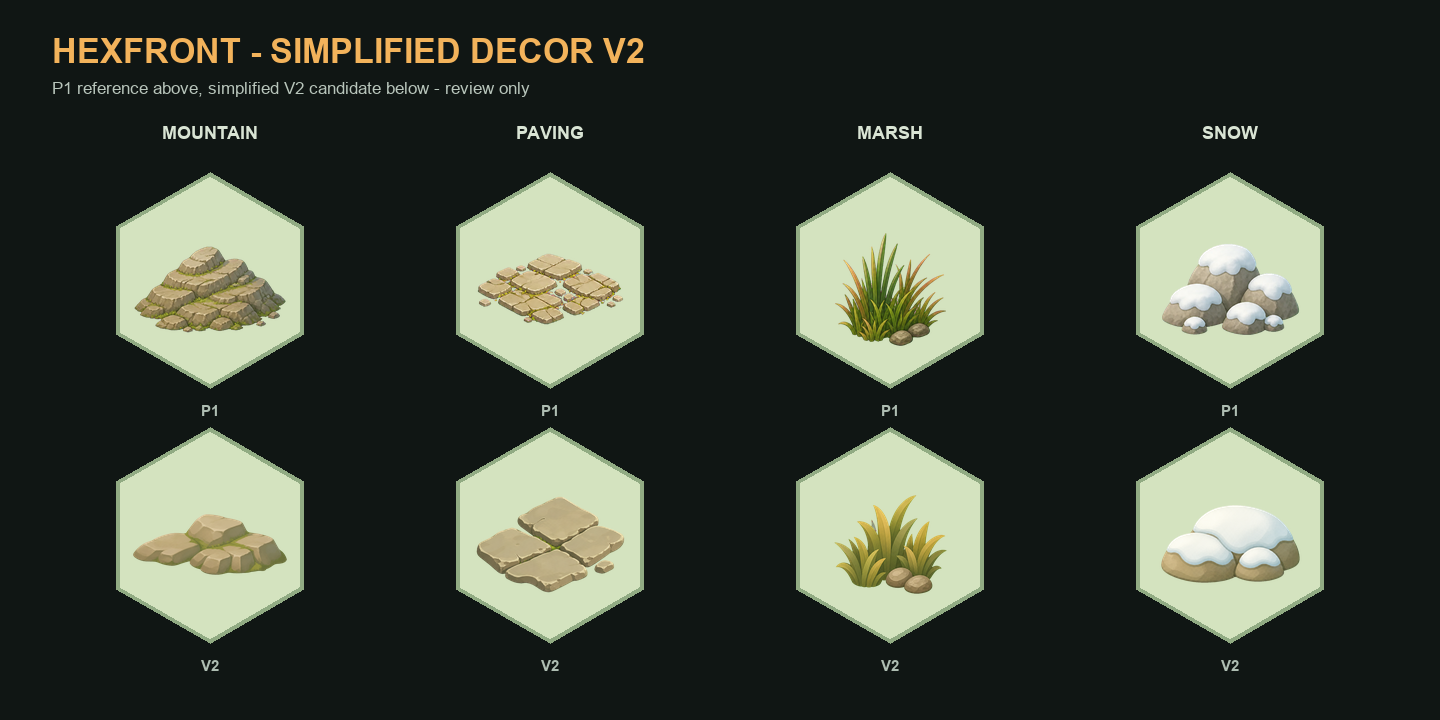
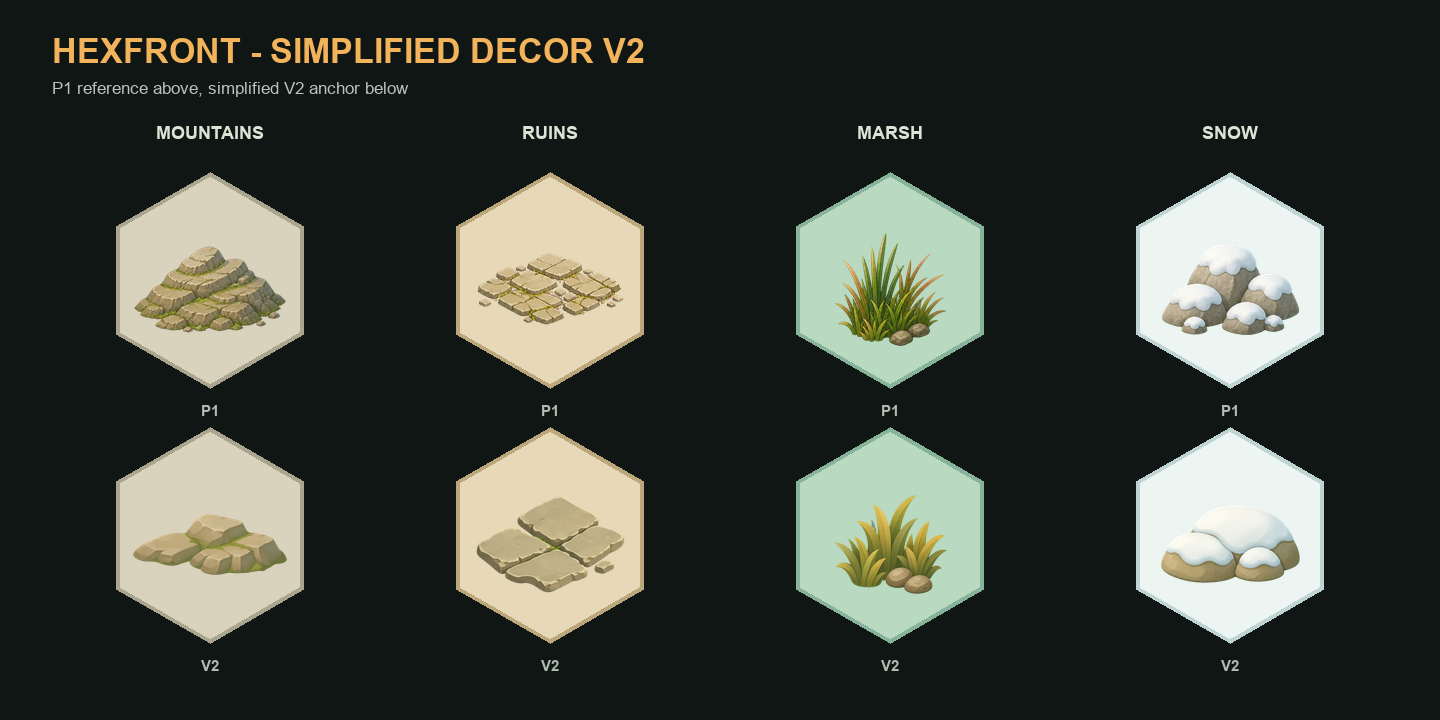
Add complete simplified decor V2 asset set

diff --git a/art/candidates/decor-v2/process_candidates.py b/art/candidates/decor-v2/process_candidates.py
@@ -8,19 +8,27 @@ ROOT = Path(__file__).parent
 SPRITE_DIR = ROOT / "sprites"
 PREVIEW_DIR = ROOT / "previews"
 P1_DIR = ROOT.parent / "decor-p1" / "sprites"
+RUNTIME_DIR = ROOT.parents[2] / "public" / "assets" / "decor-v2"
 
-ASSETS = {
-    "MOUNTAIN": ("mountains-highland-ridge.png", "mountains-highland-ridge-v2.png"),
-    "PAVING": ("ruins-cracked-paving.png", "ruins-cracked-paving-v2.png"),
-    "MARSH": ("marsh-reeds-stones.png", "marsh-reeds-stones-v2.png"),
-    "SNOW": ("snow-snow-rocks.png", "snow-snow-rocks-v2.png"),
+FAMILIES = {
+    "mountains": ["rock-outcrop", "highland-ridge", "snow-peaks", "scree-cluster"],
+    "ruins": ["collapsed-corner", "cracked-paving", "parallel-rubble", "broken-foundation"],
+    "marsh": ["cattails", "sedge", "lily-leaves", "reeds-stones"],
+    "snow": ["snow-conifer", "snow-bush", "snow-rocks", "snowdrift"],
+}
+
+ANCHORS = {
+    "mountains": "highland-ridge",
+    "ruins": "cracked-paving",
+    "marsh": "reeds-stones",
+    "snow": "snow-rocks",
 }
 
 SAFE_BOX = {
-    "MOUNTAIN": (1.46, 1.10),
-    "PAVING": (1.42, 0.96),
-    "MARSH": (1.08, 1.22),
-    "SNOW": (1.34, 1.00),
+    "mountains": (1.46, 1.10),
+    "ruins": (1.42, 0.96),
+    "marsh": (1.08, 1.22),
+    "snow": (1.34, 1.00),
 }
 
 
@@ -30,6 +38,12 @@ def font(size: int, bold: bool = False) -> ImageFont.ImageFont:
         return ImageFont.truetype(name, size)
     except OSError:
         return ImageFont.load_default()
+
+
+def sprite_path(family: str, name: str, v2: bool = True) -> Path:
+    suffix = "-v2" if v2 else ""
+    root = SPRITE_DIR if v2 else P1_DIR
+    return root / f"{family}-{name}{suffix}.png"
 
 
 def trim_with_padding(image: Image.Image, padding: int = 18) -> Image.Image:
@@ -64,24 +78,26 @@ def pointy_hex(center_x: int, center_y: int, radius: int) -> list[tuple[float, f
     ]
 
 
-def draw_hex(draw: ImageDraw.ImageDraw, x: int, y: int, radius: int) -> None:
-    draw.polygon(
-        pointy_hex(x, y, radius),
-        fill="#d4e3bf",
-        outline="#91ab83",
-        width=max(1, radius // 28 + 1),
-    )
+def draw_hex(draw: ImageDraw.ImageDraw, x: int, y: int, radius: int, family: str) -> None:
+    palette = {
+        "mountains": ("#d9d2bd", "#aaa58f"),
+        "ruins": ("#e7d9b7", "#bca77c"),
+        "marsh": ("#b9d9c1", "#86b39a"),
+        "snow": ("#edf5f2", "#bfd4d2"),
+    }
+    fill, edge = palette[family]
+    draw.polygon(pointy_hex(x, y, radius), fill=fill, outline=edge, width=max(1, radius // 28 + 1))
 
 
 def place_sprite(
     canvas: Image.Image,
-    sprite_path: Path,
+    path: Path,
     family: str,
     x: int,
     y: int,
     radius: int,
 ) -> None:
-    sprite = Image.open(sprite_path).convert("RGBA")
+    sprite = Image.open(path).convert("RGBA")
     width_ratio, height_ratio = SAFE_BOX[family]
     max_width = radius * width_ratio
     max_height = radius * height_ratio
@@ -105,66 +121,84 @@ def draw_label_centered(
     draw.text((x - (bounds[2] - bounds[0]) / 2, y), label, font=label_font, fill=color)
 
 
-def make_candidate_grid() -> None:
+def make_anchor_comparison() -> None:
     PREVIEW_DIR.mkdir(parents=True, exist_ok=True)
     canvas = Image.new("RGBA", (1440, 720), "#101614")
     draw = ImageDraw.Draw(canvas)
     draw.text((52, 32), "HEXFRONT - SIMPLIFIED DECOR V2", font=font(34, True), fill="#f3b35b")
-    draw.text((52, 78), "P1 reference above, simplified V2 candidate below - review only", font=font(17), fill="#b8c5bb")
-
+    draw.text((52, 78), "P1 reference above, simplified V2 anchor below", font=font(17), fill="#b8c5bb")
     columns = [210, 550, 890, 1230]
-    for column, (family, (p1_name, v2_name)) in zip(columns, ASSETS.items(), strict=True):
-        draw_label_centered(draw, column, 122, family, font(18, True), "#d9e4d4")
-        for row_y, sprite_path, version in (
-            (280, P1_DIR / p1_name, "P1"),
-            (535, SPRITE_DIR / v2_name, "V2"),
+    for column, (family, name) in zip(columns, ANCHORS.items(), strict=True):
+        draw_label_centered(draw, column, 122, family.upper(), font(18, True), "#d9e4d4")
+        for row_y, path, version in (
+            (280, sprite_path(family, name, False), "P1"),
+            (535, sprite_path(family, name), "V2"),
         ):
-            draw_hex(draw, column, row_y, 108)
-            place_sprite(canvas, sprite_path, family, column, row_y, 108)
+            draw_hex(draw, column, row_y, 108, family)
+            place_sprite(canvas, path, family, column, row_y, 108)
             draw_label_centered(draw, column, row_y + 122, version, font(15, True), "#aebdb2")
-
     canvas.save(PREVIEW_DIR / "candidate-grid.png", optimize=True)
 
 
-def make_game_scale_comparison() -> None:
+def make_anchor_scale_comparison() -> None:
     canvas = Image.new("RGBA", (1440, 620), "#101614")
     draw = ImageDraw.Draw(canvas)
     draw.text((52, 28), "GAME-SCALE CHECK - DESKTOP AND PORTRAIT MOBILE", font=font(30, True), fill="#f3b35b")
-    draw.text((52, 70), "Same placement limits for P1 and V2; no renderer integration", font=font(16), fill="#b8c5bb")
-
+    draw.text((52, 70), "Same placement limits for P1 and V2 anchors", font=font(16), fill="#b8c5bb")
     columns = [220, 560, 900, 1240]
-    rows = [220, 465]
-    for column, (family, (p1_name, v2_name)) in zip(columns, ASSETS.items(), strict=True):
-        draw_label_centered(draw, column, 110, family, font(17, True), "#d9e4d4")
-        for row_y, radius, scale_label in ((rows[0], 48, "48 px"), (rows[1], 31, "31 px")):
-            left_x, right_x = column - 62, column + 62
-            for x, sprite_path, version in (
-                (left_x, P1_DIR / p1_name, "P1"),
-                (right_x, SPRITE_DIR / v2_name, "V2"),
+    for column, (family, name) in zip(columns, ANCHORS.items(), strict=True):
+        draw_label_centered(draw, column, 110, family.upper(), font(17, True), "#d9e4d4")
+        for row_y, radius, scale_label in ((220, 48, "48 px"), (465, 31, "31 px")):
+            for x, path, version in (
+                (column - 62, sprite_path(family, name, False), "P1"),
+                (column + 62, sprite_path(family, name), "V2"),
             ):
-                draw_hex(draw, x, row_y, radius)
-                place_sprite(canvas, sprite_path, family, x, row_y, radius)
+                draw_hex(draw, x, row_y, radius, family)
+                place_sprite(canvas, path, family, x, row_y, radius)
                 draw_label_centered(draw, x, row_y + radius + 18, version, font(12, True), "#aebdb2")
             draw_label_centered(draw, column, row_y - radius - 30, scale_label, font(13), "#88998d")
-
     canvas.save(PREVIEW_DIR / "game-scale-comparison.png", optimize=True)
+
+
+def make_full_candidate_grid() -> None:
+    canvas = Image.new("RGBA", (1440, 1160), "#101614")
+    draw = ImageDraw.Draw(canvas)
+    draw.text((52, 30), "HEXFRONT - COMPLETE DECOR V2 RUNTIME SET", font=font(32, True), fill="#f3b35b")
+    draw.text((52, 72), "16 transparent assets - no water replacement", font=font(16), fill="#b8c5bb")
+    columns = [210, 550, 890, 1230]
+    rows = [225, 495, 765, 1035]
+    for row_y, (family, names) in zip(rows, FAMILIES.items(), strict=True):
+        draw.text((45, row_y - 112), family.upper(), font=font(18, True), fill="#d9e4d4")
+        for column, name in zip(columns, names, strict=True):
+            draw_hex(draw, column, row_y, 100, family)
+            place_sprite(canvas, sprite_path(family, name), family, column, row_y, 100)
+            draw_label_centered(draw, column, row_y + 113, name.replace("-", " "), font(14), "#d9e4d4")
+    canvas.save(PREVIEW_DIR / "full-candidate-grid.png", optimize=True)
+
+
+def make_full_scale_grid(radius: int, filename: str, title: str) -> None:
+    canvas = Image.new("RGBA", (920, 720), "#101614")
+    draw = ImageDraw.Draw(canvas)
+    draw.text((32, 22), title, font=font(24, True), fill="#f3b35b")
+    columns = [150, 355, 560, 765]
+    rows = [135, 300, 465, 630]
+    for row_y, (family, names) in zip(rows, FAMILIES.items(), strict=True):
+        draw.text((28, row_y - 70), family.upper(), font=font(14, True), fill="#d9e4d4")
+        for column, name in zip(columns, names, strict=True):
+            draw_hex(draw, column, row_y, radius, family)
+            place_sprite(canvas, sprite_path(family, name), family, column, row_y, radius)
+    canvas.save(PREVIEW_DIR / filename, optimize=True)
 
 
 def validate_sprites() -> None:
     print("file,width,height,corner_alpha,magenta_spill,visible_coverage")
     for path in sorted(SPRITE_DIR.glob("*.png")):
         image = Image.open(path).convert("RGBA")
-        corners = [
-            (0, 0),
-            (image.width - 1, 0),
-            (0, image.height - 1),
-            (image.width - 1, image.height - 1),
-        ]
+        corners = [(0, 0), (image.width - 1, 0), (0, image.height - 1), (image.width - 1, image.height - 1)]
         corner_alpha = max(image.getpixel(point)[3] for point in corners)
         pixels = list(image.getdata())
         magenta_spill = sum(
-            1
-            for red, green, blue, alpha in pixels
+            1 for red, green, blue, alpha in pixels
             if alpha > 32 and red > 180 and blue > 150 and green < 100
         )
         visible = sum(1 for _, _, _, alpha in pixels if alpha > 8)
@@ -172,8 +206,21 @@ def validate_sprites() -> None:
         print(f"{path.name},{image.width},{image.height},{corner_alpha},{magenta_spill},{coverage:.3f}")
 
 
+def export_runtime_assets() -> None:
+    RUNTIME_DIR.mkdir(parents=True, exist_ok=True)
+    for family, names in FAMILIES.items():
+        for name in names:
+            image = Image.open(sprite_path(family, name)).convert("RGBA")
+            image.thumbnail((512, 512), Image.Resampling.LANCZOS)
+            image.save(RUNTIME_DIR / f"{family}-{name}.webp", "WEBP", quality=88, method=6)
+
+
 if __name__ == "__main__":
     trim_sprites()
-    make_candidate_grid()
-    make_game_scale_comparison()
+    make_anchor_comparison()
+    make_anchor_scale_comparison()
+    make_full_candidate_grid()
+    make_full_scale_grid(48, "desktop-game-scale-grid.png", "COMPLETE V2 SET - 48 PX HEX RADIUS")
+    make_full_scale_grid(31, "mobile-game-scale-grid.png", "COMPLETE V2 SET - 31 PX HEX RADIUS")
     validate_sprites()
+    export_runtime_assets()

diff --git a/art/candidates/decor-v2/README.md b/art/candidates/decor-v2/README.md
@@ -1,46 +1,65 @@
-# HEXFRONT simplified decorative asset candidates - V2
+# HEXFRONT simplified decorative assets - V2
 
-Status: **review package only - not integrated into the renderer**
+Status: **complete, exported and integrated as the default playable decoration set**
 
-This package starts the simplified replacement pass for four representative P1 assets. The goal is not lower technical quality; it is stronger game-scale readability through fewer, larger shapes and quieter texture. Water and shore assets are explicitly outside this pass.
+This package replaces fine-grained P1 decoration with larger shapes that remain readable on desktop and portrait mobile. It contains all sixteen mountain, ruin, marsh and snow sprites used by the campaign. Water and shore rendering are explicitly outside this pass and remain unchanged.
 
-## Included style anchors
+## Runtime behavior and rollback
 
-| Family | V2 candidate | Intended improvement |
-|---|---|---|
-| Mountain | `mountains-highland-ridge-v2.png` | Three broad, asymmetrical rock masses and a single stable silhouette instead of many small ledges and loose stones. |
-| Ruins | `ruins-cracked-paving-v2.png` | Four dominant slabs and one fragment instead of a busy field of similarly weighted paving pieces. |
-| Marsh | `marsh-reeds-stones-v2.png` | Three grouped foliage masses and two stones instead of dense fine reed detail. |
-| Snow | `snow-snow-rocks-v2.png` | Three clearly visible overlapping rocks and a calmer snow contour instead of five repeated snow-cap forms. |
+- Default game URL: loads `decor-v2`.
+- `?visual=decor-v2`: explicit V2 selection.
+- `?visual=production`: former procedural decoration without generated candidate sprites.
+- `?visual=decor-p1`: earlier detailed generated set.
+- `?visual=decor-p2`: earlier authored P1 placement experiment.
+
+The renderer loads assets lazily from `public/assets/decor-v2/`. Terrain assignment and V2 motif selection use separate deterministic hashes so all variants can occur without changing gameplay, level geometry or balance.
+
+## Complete asset set
+
+| Family | Runtime motifs |
+|---|---|
+| Mountains | rock outcrop, highland ridge, snow ridge, scree cluster |
+| Ruins | collapsed corner, cracked paving, offset rubble, broken foundation |
+| Marsh | cattails, sedge, lily leaves, reeds and stones |
+| Snow | asymmetric conifer, low bush, rock cluster, snowdrift |
+
+## Visual constraints
+
+- isolated transparent sprites without baked hexes, terrain, frames or cast shadows
+- one clear silhouette and a few large tonal masses per asset
+- neutral, grounded tactical-board-game tone without fantasy peaks or military iconography
+- mobile-first readability at a 31 px hex radius
+- conservative placement boxes that retain visible hex outlines and troop-number priority
+- compact tall-tree fitting so the lower hex edge is never clipped
 
 ## Review images
 
-- `previews/candidate-grid.png` compares P1 and V2 enlarged on identical representative hexes.
-- `previews/game-scale-comparison.png` compares P1 and V2 at 48 px desktop and 31 px portrait-mobile hex radii.
+- `previews/full-candidate-grid.png` - all sixteen V2 assets enlarged on family-specific hex colors
+- `previews/desktop-game-scale-grid.png` - complete set at a 48 px hex radius
+- `previews/mobile-game-scale-grid.png` - complete set at a 31 px hex radius
+- `previews/candidate-grid.png` - original P1 versus V2 style anchors
+- `previews/game-scale-comparison.png` - P1/V2 anchors at both target sizes
 
-## Deliberate constraints
+## Verification completed
 
-- isolated transparent sprites; no baked hex, terrain, shadow or frame
-- one clear silhouette per candidate
-- large tonal masses rather than microtexture
-- neutral, non-fantasy tactical-board-game tone
-- enough internal contrast for pale terrain without competing with troop numbers
-- no runtime exports, asset registrations, renderer changes or level-data changes
-- no work on water or shore visuals
+- all 16 runtime WebP files generated and each remains below 100 KB
+- transparent source corners and chroma-spill validation performed during processing
+- every V2 asset observed through real browser resource inventories across the ten campaign levels
+- all ten levels exercised at desktop and 390 x 844 portrait-mobile viewports
+- representative ruin, highland, marsh and snow maps visually reviewed at both sizes
+- no browser-console errors, missing assets or placeholder shapes
+- no water or shore asset changes
 
-## Current review status
-
-These four images are **style anchors, not final production approval**. They should first be judged in the supplied game-scale comparison.
-
-| Candidate | Working verdict | Main reservation before integration |
-|---|---|---|
-| Highland ridge V2 | Promising | Very calm and natural at mobile scale; needs an in-map contrast check against both light and dark ground. |
-| Cracked paving V2 | Conditional | Cleaner than P1, but at 31 px it can still read as four ordinary paving stones rather than a broader ruin region. Do not propagate this motif until that semantic choice is accepted. |
-| Reeds and stones V2 | Promising | Stronger grouping and calmer color; should be tested beside other vegetation to ensure it remains marsh-specific. |
-| Snow rocks V2 | Promising | Clearer mass at 31 px; requires a pale-snow terrain check because white-on-white contrast cannot be judged on the green review tile. |
-
-The first generated V2 mountain used concentric centered terraces and resembled a constructed platform. It was rejected after the game-scale review and is preserved under `rejected/` for traceability. If the accepted abstraction level is approved, the remaining mountain, ruin, marsh and snow variants can be recreated in the same direction. Only after that should a reversible renderer test be prepared.
+Ruins intentionally remain the quietest family. The collapsed corner provides the strongest semantic cue, while paving and foundation fragments prevent every ruin cell from reading as an identical building or objective.
 
 ## Reproduction
 
-The built-in ImageGen tool generated one flat-magenta source per asset using the P1 sprite only as a subject and perspective reference. The standard ImageGen chroma-removal helper produced the transparent sprites. Run `python process_candidates.py` to trim the sprites, regenerate both previews and print alpha/spill validation.
+The built-in ImageGen tool generated one flat-magenta source per asset. Each P1 sprite was used only as a subject/perspective reference; the accepted V2 anchor supplied abstraction and palette direction. The standard ImageGen chroma-removal helper produced transparent PNGs.
+
+Run:
+
+```bash
+python art/candidates/decor-v2/process_candidates.py
+```
+
+This trims and validates the sprites, regenerates all review sheets and exports the sixteen optimized runtime WebP files to `public/assets/decor-v2/`.

diff --git a/art/candidates/decor-v2/PROMPTS.md b/art/candidates/decor-v2/PROMPTS.md
@@ -61,3 +61,28 @@ Revise this game sprite while preserving its restrained semi-flat painterly styl
 Make the subject a low, broad, coherent cluster of exactly three clearly visible rocks: one medium rear rock, one medium front-left rock and one smaller front-right rock. All three rock bodies must be visibly distinguishable, overlap naturally into one silhouette and fit completely in frame with 30% empty padding. Use one simple, broad snow mass visually tying the group together, with only two or three large snow-edge curves total. Keep the stones warm muted gray-beige and use only a small blue-gray underside on the snow.
 
 This is a tiny mobile tactical hex-game decoration and must read at 40-70 pixels wide. Simplify the current two oversized boulders and reduce their height. No separate fourth rock, pebbles, mushroom shapes, repeating identical snow caps, microtexture, hex tile, border, background scenery, cast shadow or text.
+
+## Expansion prompt set for the complete 16-asset runtime package
+
+The twelve remaining assets used the following common final prompt scaffold with two input images: Image 1 was the matching P1 subject/perspective reference; Image 2 was the accepted V2 family anchor for abstraction, palette and rendering style.
+
+> Use case: stylized-concept. Asset type: transparent decoration sprite for a mobile-first tactical hex strategy game. Recreate the specified subject for immediate readability at 40-70 px. Match the V2 anchor's restrained semi-flat painterly tactical-board-game look: grounded, non-fantasy, large tonal masses and no hard black outline. Center the complete subject with 25-30% padding on a perfectly flat uniform `#FF00FF` chroma-key background. No hex tile, border, baked terrain, frame, text, cast shadow, gradient or background texture. Avoid microtexture, photorealism and repeated tiny details.
+
+The final per-asset subject directives were:
+
+| Asset | Final subject directive and avoid list |
+|---|---|
+| `mountains-rock-outcrop-v2` | One blunt off-center upright mass, one lower shoulder and one low front rock; only 5-7 broad planes. Avoid centered tiers, pyramids, cairns, many blocks and loose pebbles. |
+| `mountains-snow-peaks-v2` | Three unequal overlapping blunt rises forming a low lateral winter ridge, with two simple connected snow bands. Avoid pointed Alps, a centered peak, snow streaks and fantasy scenery. |
+| `mountains-scree-cluster-v2` | Exactly six overlapping large stones in a low asymmetric fan with one shared internal base shadow. Avoid gravel fields, cairns and repeated identical stones. |
+| `ruins-collapsed-corner-v2` | Two short unequal L-shaped wall stubs using five large blocks total and one open gap. Avoid intact buildings, towers, gates, objectives, columns and many bricks. |
+| `ruins-parallel-rubble-v2` | Two unequal non-parallel broken masonry remnants at different angles plus one displaced block. Avoid roads, rails, arrows, symmetry and rows of bricks. |
+| `ruins-broken-foundation-v2` | Three unequal low connected slabs forming a loose open arc with one wide break and one fragment. Avoid closed squares, rings, shrines, arenas and building walls. |
+| `marsh-cattails-v2` | Exactly three broad cattail heads at unequal heights over two grouped leaf fans. Avoid four or more heads, dozens of blades, flowers and water reflections. |
+| `marsh-sedge-v2` | One low asymmetric fan of seven broad leaf masses and one subtle seed stem. Avoid dense grass balls, radial symmetry and multiple seed heads. |
+| `marsh-lily-leaves-v2` | Exactly five overlapping notched lily pads in three sizes with one broad highlight each. Avoid vein networks, flowers, baked water and lime saturation. |
+| `snow-snow-bush-v2` | Three low asymmetric foliage lobes with two connected snow masses and visible sage leaves below. Avoid domes, repeated snow blobs and Christmas decoration. |
+| `snow-snowdrift-v2` | Three connected wind-shaped mounds with a continuous blue-gray lower edge and one two-blade grass tuft. Avoid low-contrast white blobs, footprints and many snow pillows. |
+| `snow-snow-conifer-v2` | Final corrective pass: three unequal offset foliage shelves, broken outer cone, two side projections, small trunk and three differently shaped snow patches. Avoid perfect triangles, centered tiers, identical snow bands and Christmas-tree icon symmetry. |
+
+The first snow-conifer output was rejected for excessive symmetry and is preserved under `rejected/`. The accepted corrective generation additionally used the existing Level 1 conifer only as a natural-silhouette reference while retaining the V2 snow treatment and palette.
